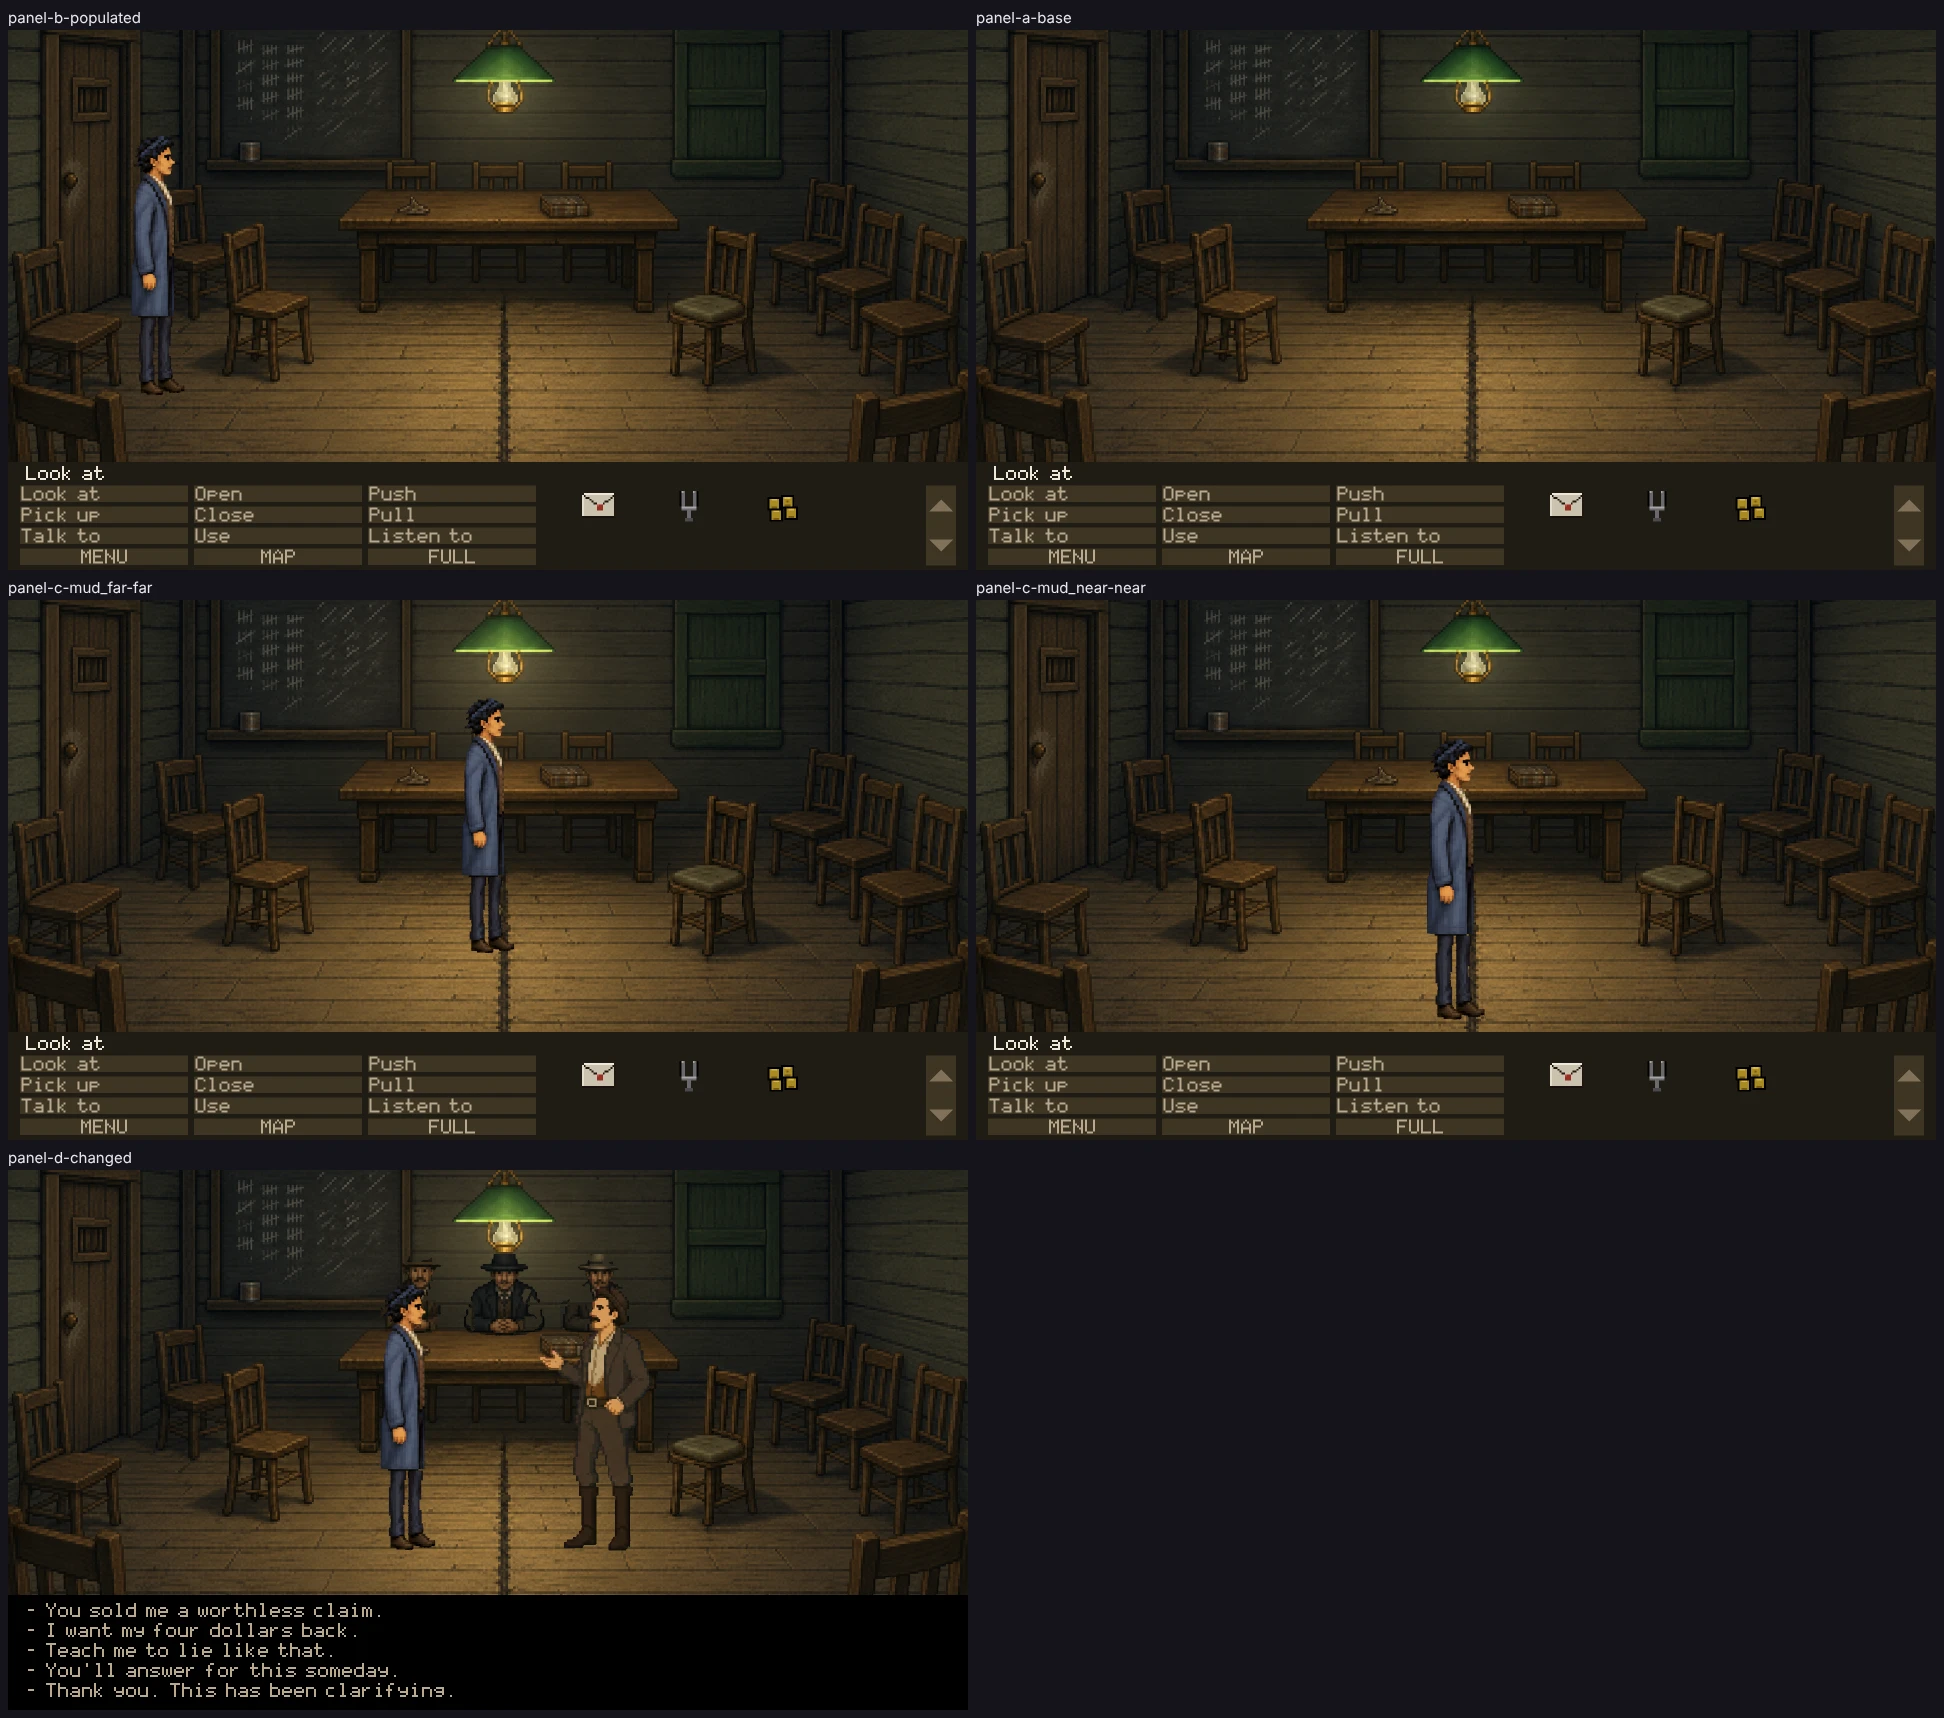
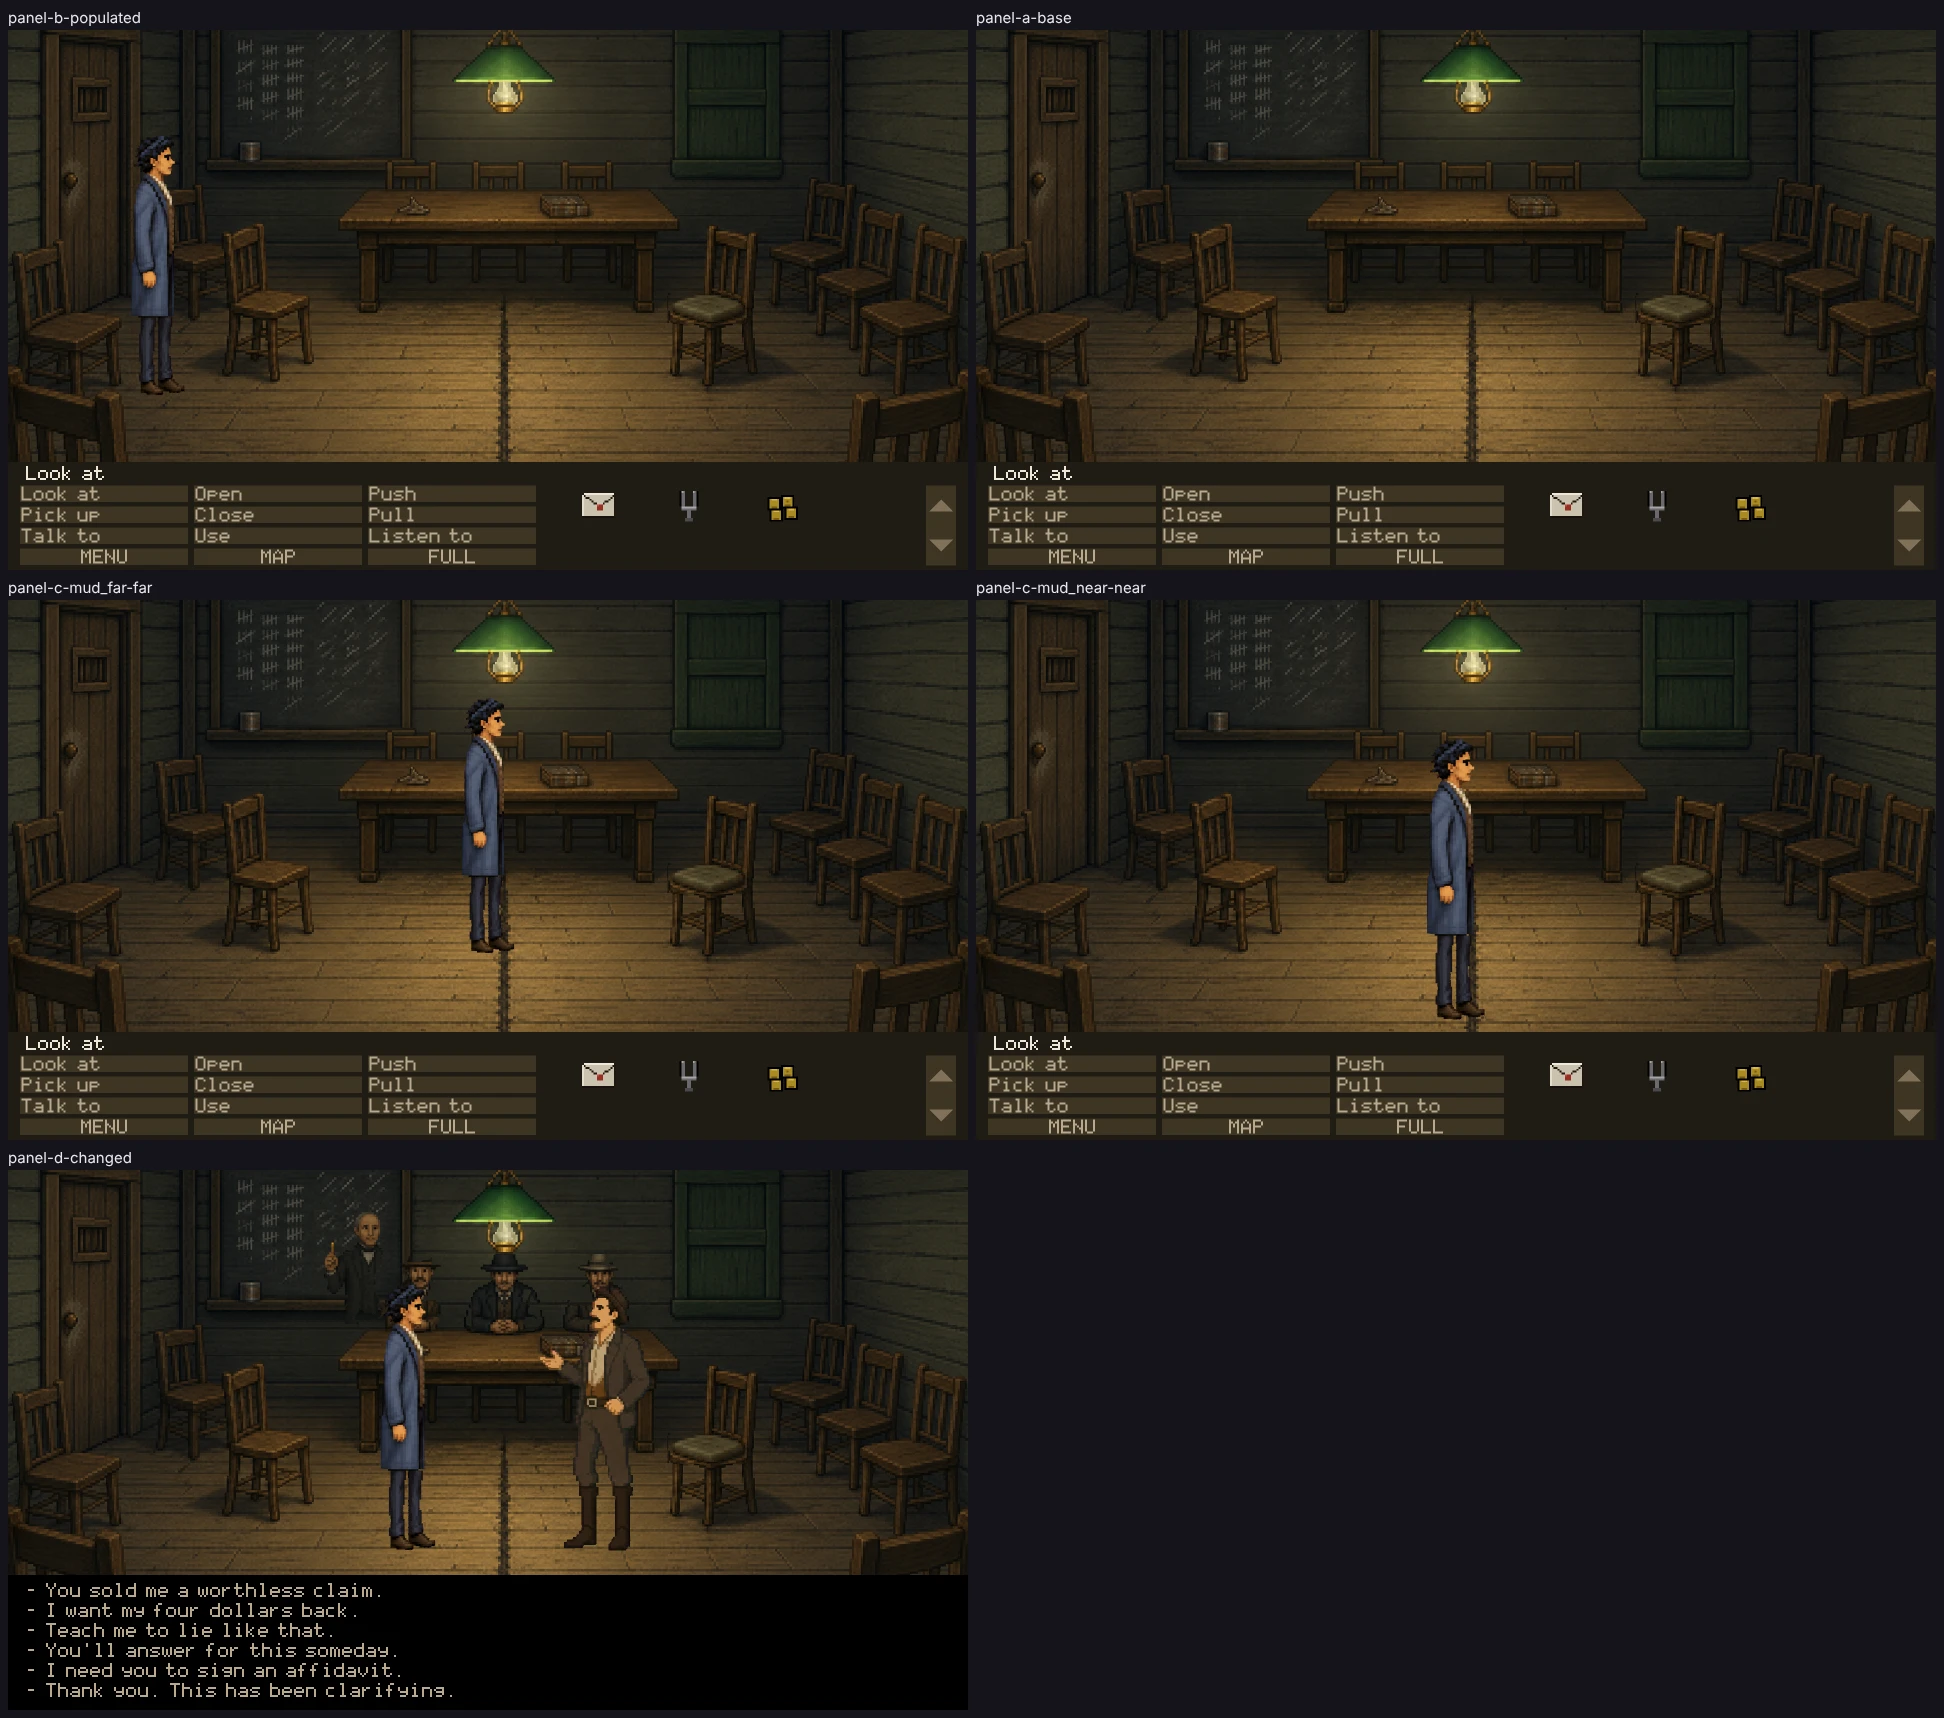
Room 4: four-panel proof after the merge
Claude-Session: https://claude.ai/code/session_01FXbCurjq3gWmZKUYv89gwi

Changed region(s): [[0.0, 0.8946, 0.4938, 0.9872], [0.2469, 0.7095, 0.2778, 0.7404], [0.1852, 0.7095, 0.216, 0.7404]]

diff --git a/renders/proofs/nugget-back/index.html b/renders/proofs/nugget-back/index.html
@@ -17,7 +17,7 @@
 </style>
 <h1>nugget_back — four-panel live-runtime proof</h1>
 <p class="lede">Every frame below is the full play area as the renderer drew it, in the running
-game, at <code>0214c776</code> on <code>claude/tender-sagan-buz50u</code>.
+game, at <code>b7b754fd</code> on <code>claude/tender-sagan-buz50u</code>.
 No crop, isolated sprite or source image appears here: those are for diagnosing what a full
 frame has already shown.</p>
 <p class="lede"><b>These panels establish technical admissibility only.</b> Nothing here says the
@@ -57,9 +57,9 @@ art is good, in style, funny or approved. Only Tyler sets <code>visual_accepted<
     <img src="raw-captures-ignored/panel-d-changed.png" alt="" onerror="this.replaceWith(Object.assign(
       document.createElement('p'), { className: 'gone', textContent:
       'raw capture not committed -- regenerate with: npm run proof ' + "nugget_back" }))">
-    <figcaption><b>PANEL D &mdash; principal changed state: THE ASSAY CONVENES. Prerequisite: T_VESSEL_FOUND (B3, Room 15, unbuilt). Visible consequence: Deke Vessel at his mark across the burnt line and the three judges behind the table. Then TALK TO Vessel opens VES_B1.</b>
+    <figcaption><b>PANEL D &mdash; principal changed state: THE ASSAY CONVENES. Prerequisite: T_VESSEL_FOUND (B3, Room 15, unbuilt). Visible consequence: Deke Vessel at his mark across the burnt line, the three judges behind the table and Sowerby with the pencil. Then TALK TO Vessel opens VES_B1.</b>
       <span>room nugget_back &middot; camera 0 &middot;
-        flags T_OPENING_SAID T_COACH_DEPARTED T_UNDERTAKER_NAMED T_HOB_CROSSING T_THAD_LEAVING T_HOB_SPOKEN T_HOB_GONE T_OPENING_DONE T_SEEN_MAIN_STREET T_CASE_DOWN T_CASE_TAKEN T_VESSEL_OPENED T_VESSEL_FOUND &middot;
+        flags T_OPENING_SAID T_COACH_DEPARTED T_UNDERTAKER_NAMED T_HOB_CROSSING T_THAD_LEAVING T_HOB_SPOKEN T_HOB_GONE T_OPENING_DONE T_SEEN_MAIN_STREET T_CASE_DOWN T_CASE_TAKEN T_VESSEL_OPENED T_VESSEL_FOUND T_VESSEL_GREETED &middot;
         inventory letter tuning_fork four_dollars</span>
       <span>thad @800,760 530px sprite</span>
     </figcaption>
@@ -68,8 +68,8 @@ art is good, in style, funny or approved. Only Tyler sets <code>visual_accepted<
     <img src="raw-captures-ignored/panel-c-mud_far-far.png" alt="">
     <figcaption><b>PANEL C &mdash; mud_far far, authored y706</b>
       <span>expected 509px &middot; runtime 509px &middot;
-        silhouette 529px, bottom y705</span>
-      <span>art/actors/thad-idle-right/idle-02.png</span>
+        silhouette 509px, bottom y705</span>
+      <span>art/actors/thad-idle-right/idle-03.png</span>
     </figcaption>
   </figure>
   <figure>
@@ -77,6 +77,6 @@ art is good, in style, funny or approved. Only Tyler sets <code>visual_accepted<
     <figcaption><b>PANEL C &mdash; mud_near near, authored y839</b>
       <span>expected 560px &middot; runtime 560px &middot;
         silhouette 560px, bottom y838</span>
-      <span>art/actors/thad-idle-right/idle-01.png</span>
+      <span>art/actors/thad-idle-right/idle-03.png</span>
     </figcaption>
   </figure>
